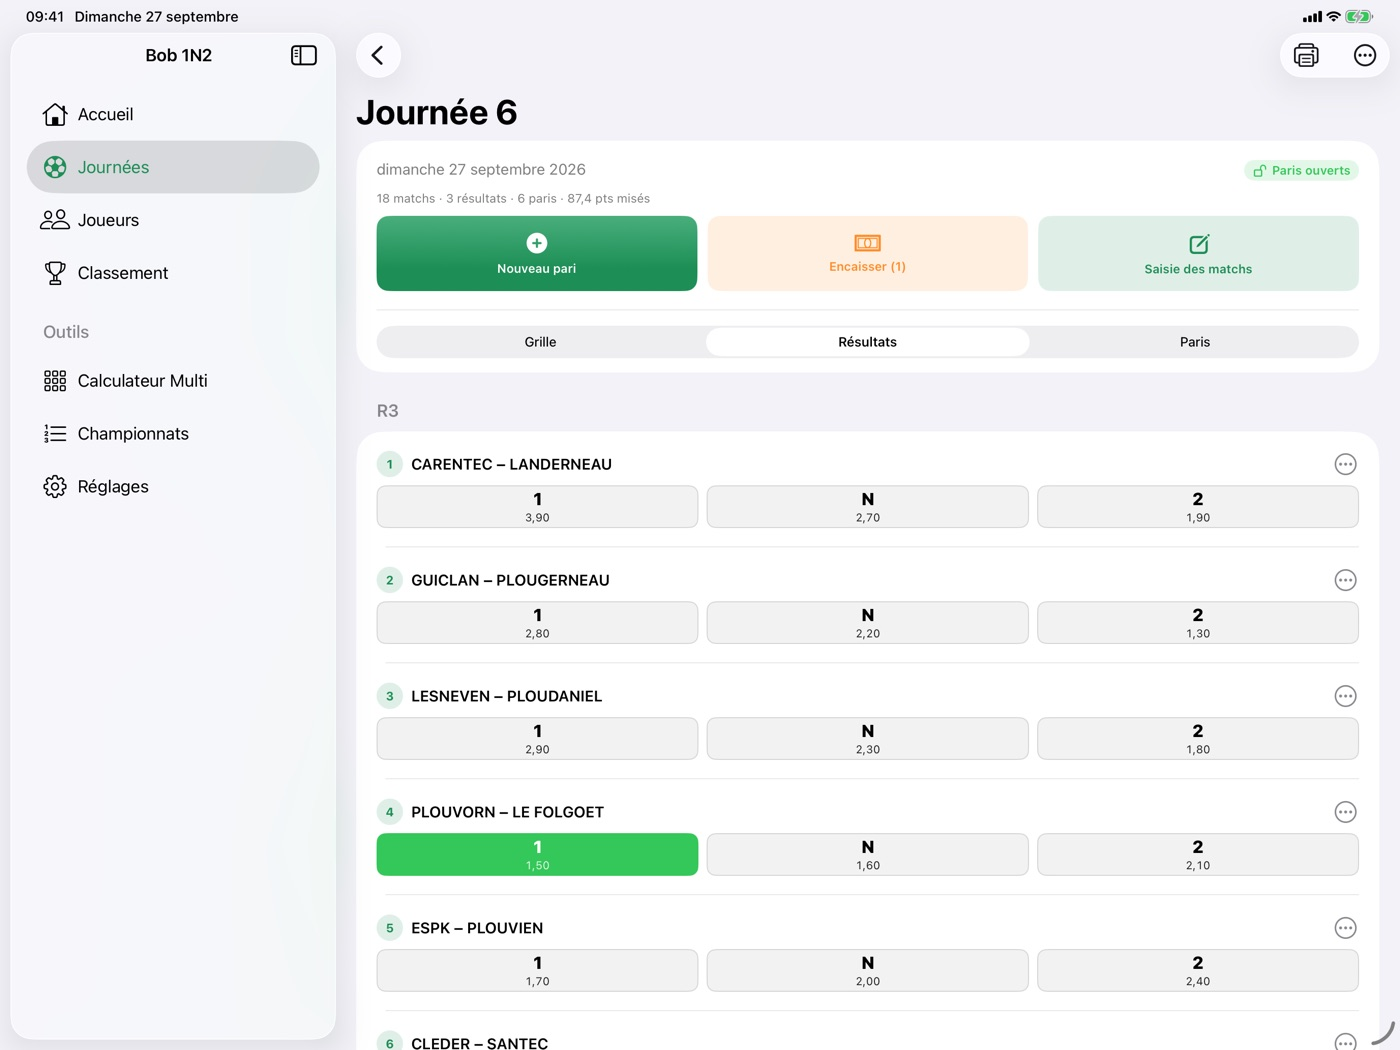
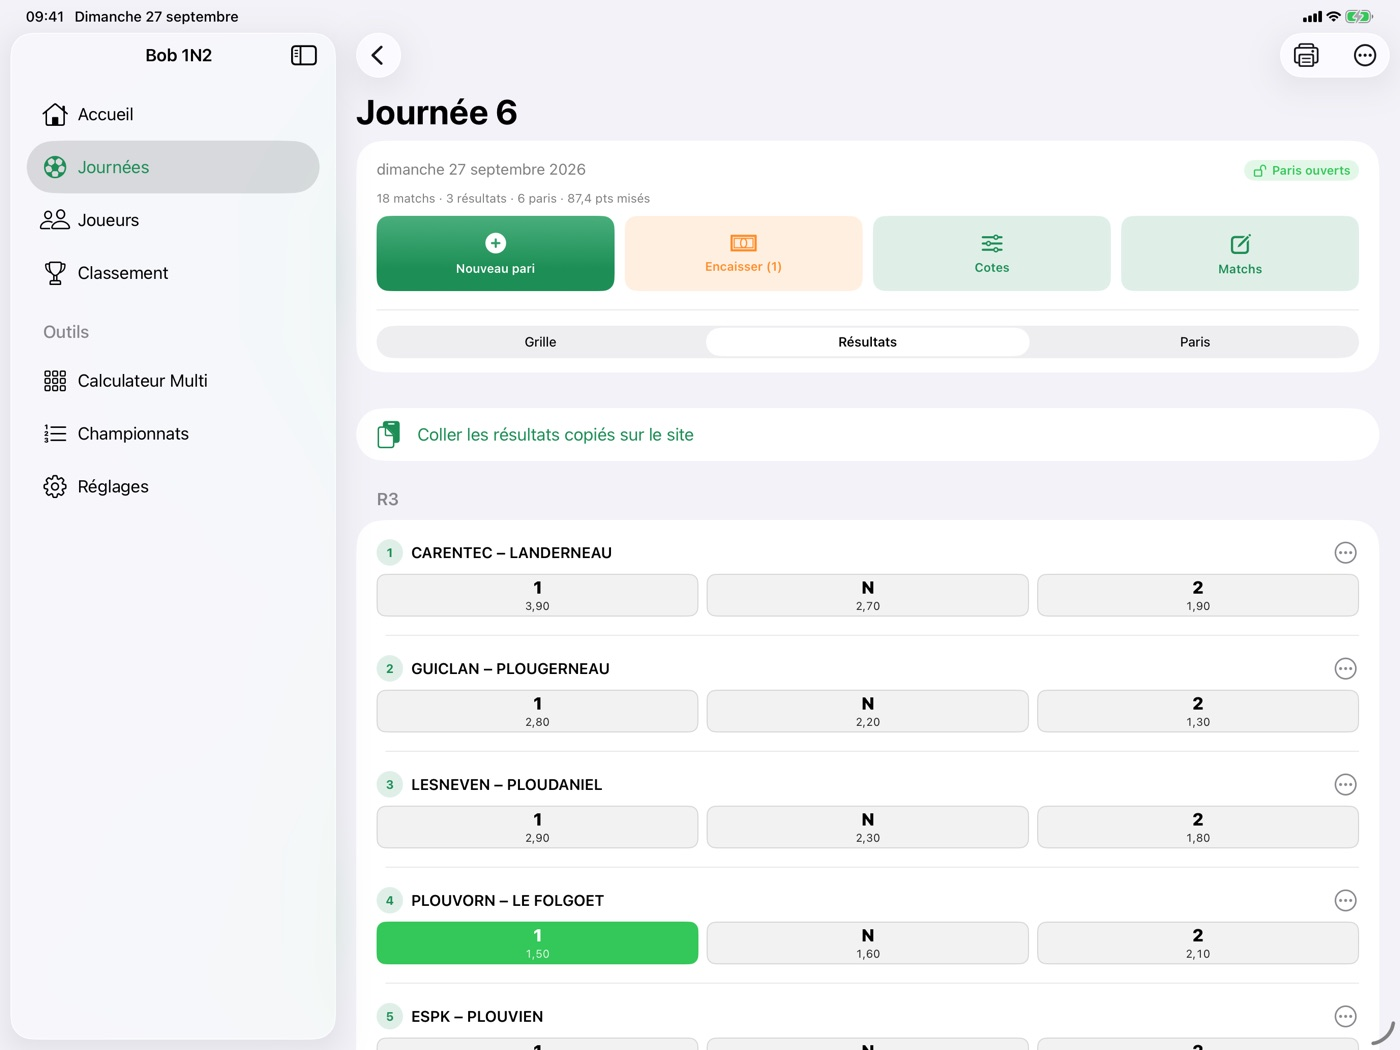
Copier-coller des classements, matchs et résultats ; écran des cotes

diff --git a/index.html b/index.html
@@ -35,8 +35,8 @@
       <figcaption>La journée et le podium</figcaption></figure>
     <figure><img src="images/pari.jpg" alt="Un pari : on touche 1, N ou 2 sur chaque match, la cote totale et les gains potentiels se calculent en direct." loading="lazy" width="599" height="1303">
       <figcaption>Un pari en quelques touches</figcaption></figure>
-    <figure><img src="images/joueur.jpg" alt="La fiche d'un joueur : son porte-feuilles, ses consommations, ses paris en cours et leur état match par match." loading="lazy" width="599" height="1303">
-      <figcaption>Le porte-feuilles de chacun</figcaption></figure>
+    <figure><img src="images/cotes.jpg" alt="Les cotes de la journée : chaque cote se règle avec − et +, la marge de chaque match s'affiche, et les cotes peuvent être proposées d'après les classements." loading="lazy" width="599" height="1303">
+      <figcaption>Les cotes, d'un doigt</figcaption></figure>
     <figure><img src="images/classement.jpg" alt="Le classement du concours : le podium, puis tous les joueurs par nombre de points." loading="lazy" width="599" height="1303">
       <figcaption>Le tableau d'honneur</figcaption></figure>
   </div>
@@ -45,6 +45,9 @@
   <ul>
     <li><strong>Les matchs et leurs cotes</strong> — domicile, extérieur, cotes 1, N et 2, regroupés par
     division (R1, R3, D3…) comme sur votre feuille de saisie.</li>
+    <li><strong>Coller plutôt que taper</strong> — copiez la liste des matchs sur votre site de
+    résultats et collez-la : la grille se remplit. On peut aussi taper « Équipe A - Équipe B 1,8 3,2 4 »,
+    cotes comprises, un match par ligne.</li>
     <li><strong>La semaine suivante déjà prête</strong> — une nouvelle journée reprend les matchs de la
     précédente : il ne reste qu'à corriger ce qui change.</li>
     <li><strong>Une grille à cocher</strong> — imprimée en A4, avec une case devant chaque cote, pour
@@ -58,8 +61,17 @@
     <li><strong>Le système</strong> — de 3 à 8 matchs, avec les combinaisons « 2 sur n », « 3 sur n »…
     jusqu'au Goliath et ses 247 combinaisons : quelques erreurs sont permises.</li>
     <li><strong>Une mise jamais au-delà du porte-feuilles</strong>, et un ticket à imprimer ou envoyer.</li>
-    <li><strong>Le rang des équipes</strong> — tenez à jour le classement des divisions : il s'affiche à
-    côté de chaque équipe au moment de parier.</li>
+    <li><strong>Le rang des équipes</strong> — collez le classement copié sur la page de chaque
+    championnat : il s'affiche à côté de chaque équipe au moment de parier.</li>
+  </ul>
+
+  <h2>Les cotes, sans calculette</h2>
+  <ul>
+    <li><strong>Proposées d'après les classements</strong> — points et différence de buts de chaque
+    équipe, avantage du terrain, et la marge que vous choisissez : plus elle est haute, plus les cotes
+    sont basses.</li>
+    <li><strong>Ajustées d'un doigt</strong> — un appui sur − ou + pour chaque cote, et la marge de chaque
+    match affichée pour garder une grille cohérente.</li>
   </ul>
 
   <figure class="large"><img src="images/ipad-resultats.jpg" alt="Sur iPad, la saisie des résultats : un appui sur l'issue gagnante de chaque match, qui passe en vert." loading="lazy" width="1400" height="1050">
@@ -67,7 +79,8 @@
 
   <h2>Résultats et encaissement</h2>
   <ul>
-    <li>Un appui sur l'issue gagnante de chaque match ; un match annulé compte pour une cote de 1.</li>
+    <li>Un appui sur l'issue gagnante de chaque match, ou les scores copiés sur le site et collés : les
+    résultats se posent seuls sur les bons matchs. Un match annulé compte pour une cote de 1.</li>
     <li>Chaque ticket se met à jour match par match : en cours, perdu, à encaisser.</li>
     <li>Tous les paris terminés s'encaissent d'un geste, validé par le <strong>code barman</strong> :
     les clients peuvent parier eux-mêmes sur l'iPad du comptoir, seul le barman crédite les points.</li>
@@ -91,7 +104,8 @@
 
   <h2>Sans rien de superflu</h2>
   <p>Pas de compte, pas de publicité, aucune donnée collectée. Joueurs, grilles et paris restent sur
-  votre appareil et tout fonctionne hors connexion.</p>
+  votre appareil et tout fonctionne hors connexion. L'application ne télécharge rien : les liens vers
+  votre site de résultats s'ouvrent dans le navigateur, où vous copiez ce qui vous sert.</p>
 </main>
 <footer class="dedans">Bob 1N2 — Robert Oulhen, éditeur individuel · <a href="mailto:bob.oulhen@gmail.com">bob.oulhen@gmail.com</a></footer>
 </body>

diff --git a/assistance.html b/assistance.html
@@ -41,9 +41,37 @@
   précédente sont recopiés, sans leurs résultats. Dans la journée, « Saisie des matchs » affiche tous
   les matchs d'un seul écran : catégorie (R3, D3…), équipes et cotes 1, N et 2.</p>
 
+  <h3>Comment remplir la grille sans tout taper ?</h3>
+  <p>Sur votre site de résultats, sélectionnez la liste des matchs de la journée et copiez-la. Dans la
+  journée, menu ⋯ › « Coller des matchs… », puis « Coller » : l'aperçu montre les matchs reconnus, que
+  l'on peut décocher. Choisissez la catégorie (le championnat) et laissez « Proposer les cotes » coché.
+  On peut aussi taper un match par ligne, « Équipe A - Équipe B », suivi si on veut des trois cotes :
+  « Équipe A - Équipe B 1,8 3,2 4 ».</p>
+
   <h3>Comment imprimer une grille à cocher ?</h3>
   <p>Dans la journée, le bouton d'impression propose « Imprimer… » ou « Partager le PDF… » : une page A4
   avec une case devant chaque cote et, en bas, la place pour le nom et la mise.</p>
+
+  <h2>Championnats et cotes</h2>
+
+  <h3>Comment charger mes championnats ?</h3>
+  <p>Onglet Championnats (sur iPhone : Plus › Championnats), bouton + › « Ligue de Bretagne » : choisissez
+  vos championnats, leur page de résultats est retenue. Pour un autre championnat, « Nouveau
+  championnat… », puis menu ⋯ › « Nom et page de résultats… ». Ouvrez ensuite le championnat, touchez
+  « Ouvrir la page », copiez le tableau du classement, revenez et touchez « Coller le classement ».
+  Refaites-le chaque semaine pour le tenir à jour.</p>
+
+  <h3>Pourquoi l'application ne récupère-t-elle pas les classements toute seule ?</h3>
+  <p>Parce que les sites de résultats n'y consentent pas toujours : les conditions de live.newsouest.fr,
+  par exemple, interdisent l'extraction automatique de leurs données. Bob 1N2 ne télécharge donc rien :
+  c'est vous qui copiez la page dans votre navigateur, comme dans un tableur.</p>
+
+  <h3>Comment mettre en place les cotes ?</h3>
+  <p>Dans la journée, touchez « Cotes ». « Proposer toutes les cotes » les calcule d'après les classements
+  collés (points et différence de buts de chaque équipe, avantage du terrain) et selon votre marge,
+  réglable en haut de l'écran : plus elle est haute, plus les cotes sont basses. Ajustez ensuite chaque
+  cote avec − et +, ou tapez-la. La marge de chaque match s'affiche : en rouge, les cotes sont trop
+  généreuses. Une équipe absente des classements compte pour une équipe moyenne.</p>
 
   <h2>Les paris</h2>
 
@@ -73,6 +101,12 @@
   <p>Dans la journée, onglet Résultats : touchez l'issue gagnante de chaque match, elle passe en vert.
   Un second appui l'efface. Le menu ⋯ d'un match permet de le déclarer annulé : il compte alors pour une
   cote de 1 dans les paris qui le contiennent.</p>
+
+  <h3>Comment poser tous les résultats d'un coup ?</h3>
+  <p>Copiez les résultats de la journée sur votre site, puis dans l'onglet Résultats, « Coller les
+  résultats copiés sur le site ». Chaque score est rattaché au match qui a les mêmes équipes, même écrites
+  un peu différemment (« PLOUVIEN » et « AS PLOUVIEN »). Un résultat déjà saisi n'est jamais écrasé :
+  l'aperçu le signale.</p>
 
   <h3>Comment verser les gains ?</h3>
   <p>Dès qu'un pari est joué jusqu'au bout — ou perdu, ce qui peut se savoir avant la fin — il devient

diff --git a/confidentialite.html b/confidentialite.html
@@ -23,7 +23,7 @@
   </div>
 </header>
 <main class="dedans">
-  <p class="date">Dernière mise à jour : 27 septembre 2026 · Version 1.0</p>
+  <p class="date">Dernière mise à jour : 27 septembre 2026 · Version 1.0 (copier-coller des résultats)</p>
 
   <div class="encadre">
     <h3>En une phrase</h3>
@@ -55,9 +55,10 @@
     mouvements</td><td>Tenir le compte de chacun et établir le classement</td></tr>
     <tr><td>Les journées : matchs, cotes, résultats ; les paris de chaque joueur</td><td>Calculer les
     gains et les verser</td></tr>
-    <tr><td>Les classements de championnat et le palmarès des concours</td><td>Les afficher et les
-    retrouver d'un lancement à l'autre</td></tr>
-    <tr><td>Les réglages : titre du jeu, points de départ, points par consommation, code barman</td>
+    <tr><td>Les championnats : nom, adresse de leur page de résultats, classements collés ; le palmarès
+    des concours</td><td>Les afficher, proposer les cotes, les retrouver d'un lancement à l'autre</td></tr>
+    <tr><td>Les réglages : titre du jeu, points de départ, points par consommation, marge des cotes,
+    adresse de votre site de résultats, code barman</td>
     <td>Ne pas vous les redemander ; réserver certaines opérations au barman</td></tr>
   </table>
   <p>Comme les données de toute application, elles figurent dans la sauvegarde de votre appareil (iCloud
@@ -70,6 +71,12 @@
   appareil et ne nous parviennent jamais. Vis-à-vis des joueurs, c'est vous, en tant qu'organisateur,
   qui en répondez au sens du règlement général sur la protection des données (RGPD) : un prénom ou un
   surnom suffit souvent, et un joueur qui ne participe plus peut être supprimé à tout moment.</p>
+
+  <h2>Ce que vous collez</h2>
+  <p>Les classements, matchs et résultats que vous copiez sur un site et collez dans l'application sont
+  lus sur l'appareil et ne sont envoyés nulle part. L'application ne se connecte à aucun site : les liens
+  vers votre site de résultats s'ouvrent dans votre navigateur, qui applique ses propres règles et celles
+  du site consulté.</p>
 
   <h2>Face ID, Touch ID et code de l'appareil</h2>
   <p>Si vous avez oublié le code barman, l'application peut vous demander de vous identifier comme

diff --git a/conditions.html b/conditions.html
@@ -66,6 +66,16 @@
   <a href="https://reportaproblem.apple.com">reportaproblem.apple.com</a>.</p>
   <p>Le code barman limite l'accès à certaines opérations sur l'appareil ; ce n'est pas un
   dispositif de sécurité : gardez la maîtrise de l'appareil sur lequel le concours est tenu.</p>
+  <p>Les cotes proposées d'après les classements sont un simple point de départ, calculé sur
+  l'appareil ; elles ne prédisent rien et restent sous votre seule responsabilité.</p>
+
+  <h2>4 bis. Sites de résultats et contenus collés</h2>
+  <p>L'application ne télécharge rien. Elle propose des liens vers des sites de résultats, dont
+  live.newsouest.fr pour la Ligue de Bretagne, qui s'ouvrent dans votre navigateur ; ces sites sont
+  édités par des tiers, sans lien avec Bob 1N2, et leurs contenus leur appartiennent. Lorsque vous y
+  copiez un classement, une liste de matchs ou des résultats pour les coller dans l'application, il vous
+  appartient de respecter leurs conditions d'utilisation : certains interdisent toute réutilisation de
+  leurs données au-delà d'un usage personnel.</p>
 
   <h2>5. Vos données</h2>
   <p>Les joueurs, les grilles, les paris et les réglages sont enregistrés sur votre appareil
